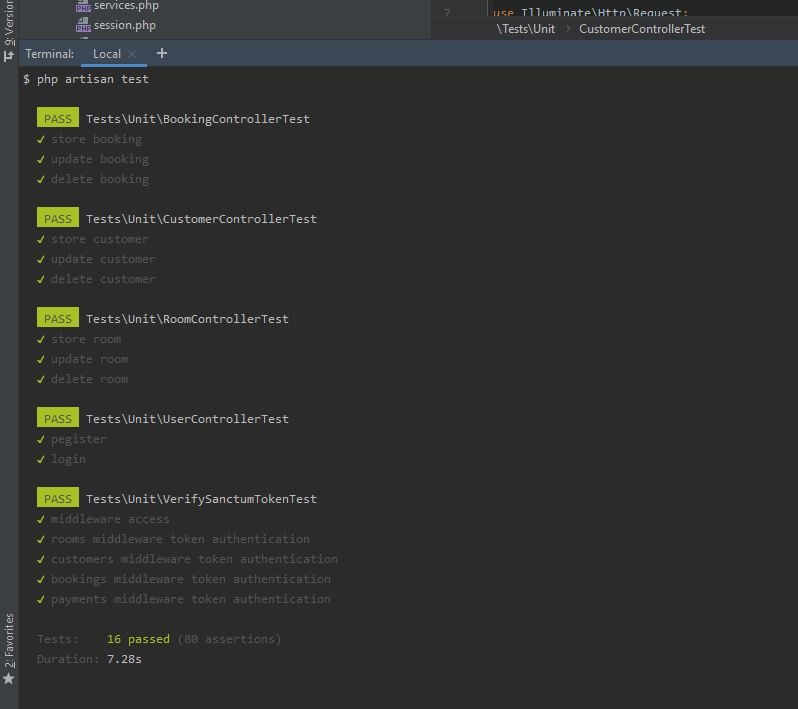
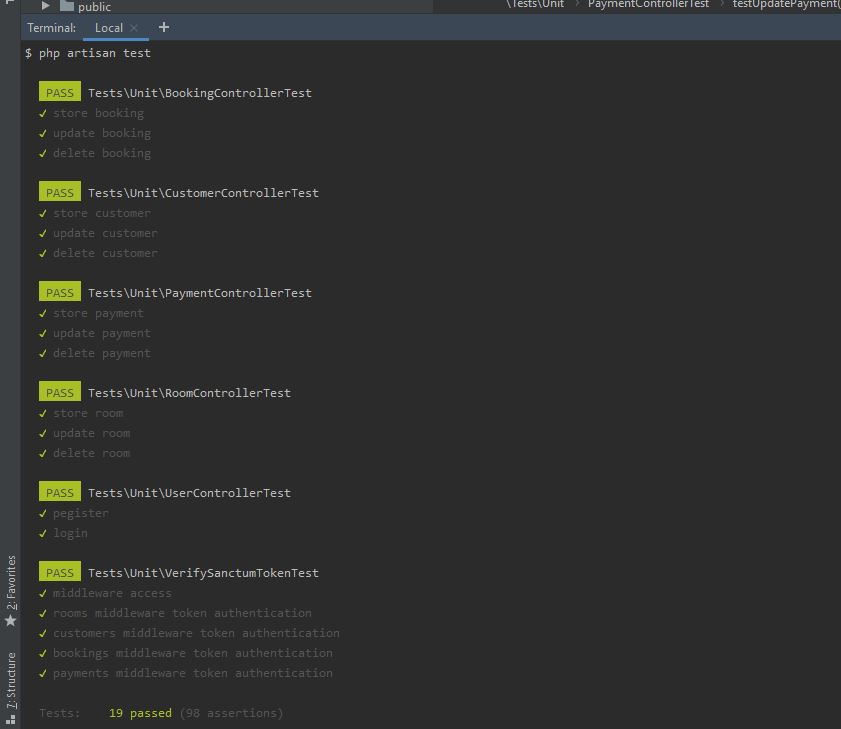
Completing unit tests

diff --git a/tests/Unit/PaymentControllerTest.php b/tests/Unit/PaymentControllerTest.php
@@ -1,0 +1,152 @@
+<?php
+
+namespace Tests\Unit;
+
+use App\Http\Controllers\Api\PaymentController;
+use App\Models\Booking;
+use App\Models\Customer;
+use App\Models\Payment;
+use App\Models\Room;
+use Illuminate\Http\Request;
+use Illuminate\Support\Facades\DB;
+use Tests\TestCase;
+
+class PaymentControllerTest  extends TestCase
+{
+    private $room;
+    private $customer;
+    private $booking;
+
+    public function setUp(): void
+    {
+        parent::setUp();
+
+        DB::beginTransaction();
+
+        $this->createRoom();
+        $this->createCustomer();
+        $this->createBooking();
+    }
+
+    private function createBooking(): void
+    {
+        $this->booking = Booking::create([
+            'room_id' => $this->room->id,
+            'customer_id' => $this->customer->id,
+            'price' => 255.55,
+            'start_date' => '2024-02-12 12:00:00',
+            'end_date' => '2024-02-14  12:00:00',
+        ]);
+    }
+
+    private function createRoom(): void
+    {
+        $this->room = Room::create([
+            'number' => 1,
+            'name' => 'Room 1',
+            'price' => 333.22,
+            'type' => Room::TYPE_STUDIO
+        ]);
+    }
+
+    private function createCustomer(): void
+    {
+        $this->customer = Customer::create([
+            'name' => 'Test Customer',
+            'email' => 'test@customer.com',
+            'phone' => '0878123456',
+        ]);
+    }
+
+    private function createPayment()
+    {
+        $data = [
+            'booking_id' => $this->booking->id,
+            'payment_date' => '2024-02-13 13:23:22',
+            'amount' => 321.22,
+            'status' => Payment::STATUS_PENDING,
+        ];
+
+        return Payment::create($data);
+    }
+
+    public function testStorePayment()
+    {
+        $data = [
+            'booking_id' => $this->booking->id,
+            'payment_date' => '2024-02-13 13:23:22',
+            'amount' => 455.66,
+            'status' => Payment::STATUS_SUCCEED,
+        ];
+
+        $controller = new PaymentController();
+        $method = new \ReflectionMethod($controller, 'store');
+        $method->setAccessible(true);
+
+        $request = new Request();
+        $request->setMethod('POST');
+        $request->replace($data);
+
+        $response = $method->invoke($controller, $request);
+        $get = json_decode($response->getContent(), true);
+
+        $this->assertTrue($response->getStatusCode() === 201);
+        $this->assertTrue($get['success'] === true);
+
+        $check = Payment::where('booking_id', $data['booking_id'])->first();
+        $this->assertNotNull($check);
+    }
+
+    public function testUpdatePayment()
+    {
+        $payment = $this->createPayment();
+        $this->assertNotNull($payment);
+
+        $data = [
+            'booking_id' => $this->booking->id,
+            'payment_date' => '2024-02-18 15:43:44',
+            'amount' => 456.78,
+            'status' => Payment::STATUS_SUCCEED,
+        ];
+
+        $controller = new PaymentController();
+        $method = new \ReflectionMethod($controller, 'update');
+        $method->setAccessible(true);
+
+        $request = new Request();
+        $request->setMethod('PUT');
+        $request->replace($data);
+
+        $response = $method->invoke($controller, $request, $payment);
+        $get = json_decode($response->getContent(), true);
+
+        $this->assertTrue($response->getStatusCode() === 201);
+        $this->assertTrue($get['success'] === true);
+
+        $check = Payment::where('booking_id', $data['booking_id'])->first();
+        $this->assertNotNull($check);
+        $this->assertEquals($data['amount'], $check->amount);
+    }
+
+    public function testDeletePayment()
+    {
+        $payment = $this->createPayment();
+        $this->assertNotNull($payment);
+
+        $controller = new PaymentController();
+        $method = new \ReflectionMethod($controller, 'remove');
+        $method->setAccessible(true);
+
+        $response = $method->invoke($controller, $payment);
+        $get = json_decode($response->getContent(), true);
+
+        $this->assertTrue($response->getStatusCode() === 201);
+        $this->assertTrue($get['success'] === true);
+    }
+
+    public function tearDown(): void
+    {
+        DB::rollBack();
+        parent::tearDown();
+    }
+}
